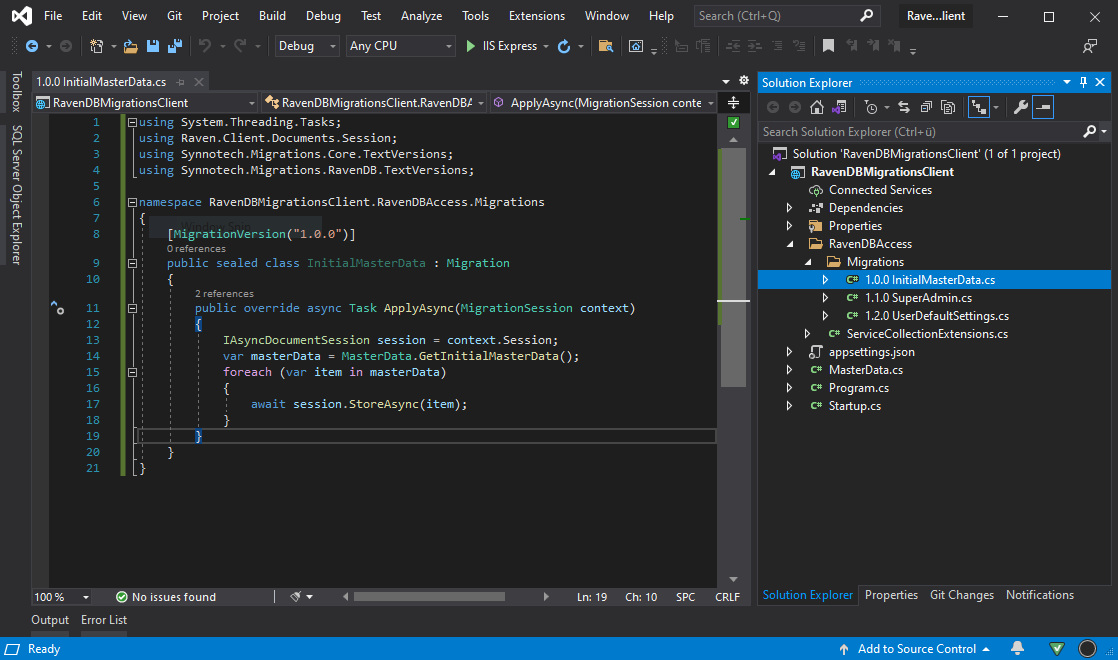
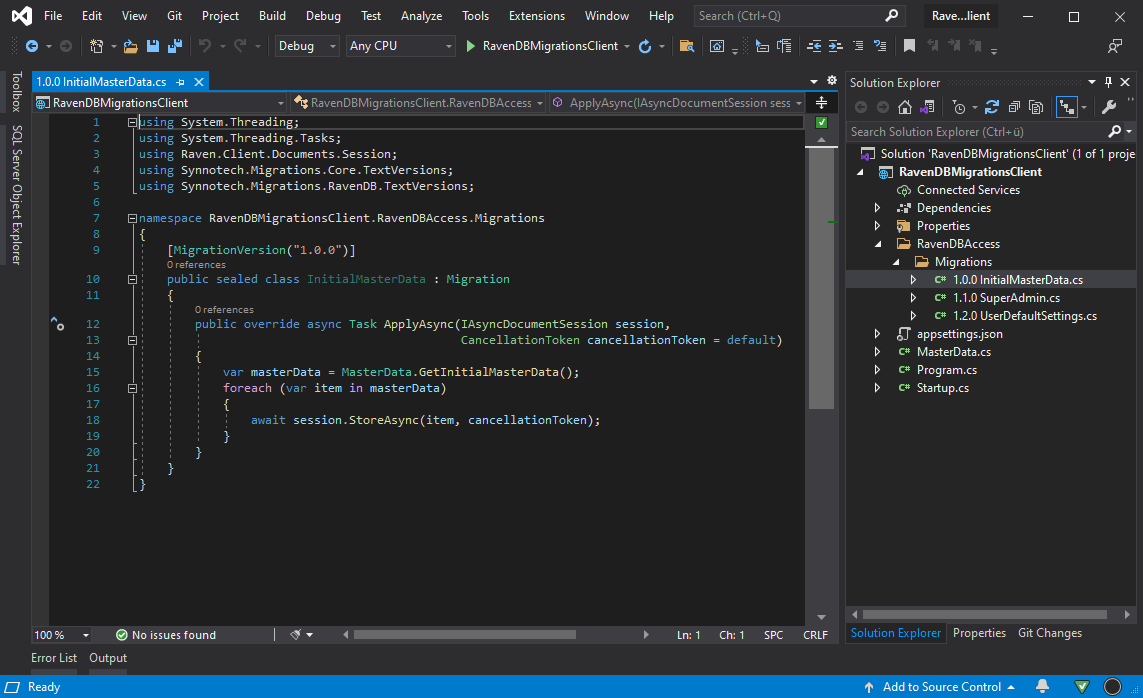
updated RavenDB docs for support for Cancellation Tokens

diff --git a/Code/src/Synnotech.Migrations.RavenDB/readme.md b/Code/src/Synnotech.Migrations.RavenDB/readme.md
@@ -100,13 +100,14 @@ namespace MyRavenDBAccessLayer
     [MigrationVersion("1.0.0")]
     public sealed class InitialMasterData : Migration
     {
-        public override async Task ApplyAsync(IAsyncDocumentSession session)
+        public override async Task ApplyAsync(IAsyncDocumentSession session,
+                                              CancellationToken cancellationToken = default)
         {
             var masterData = MasterData.GetInitialMasterData();
 
             foreach (var item in masterData)
             {
-                await session.StoreAsync(item);
+                await session.StoreAsync(item, cancellationToken);
             }
         }
     }
